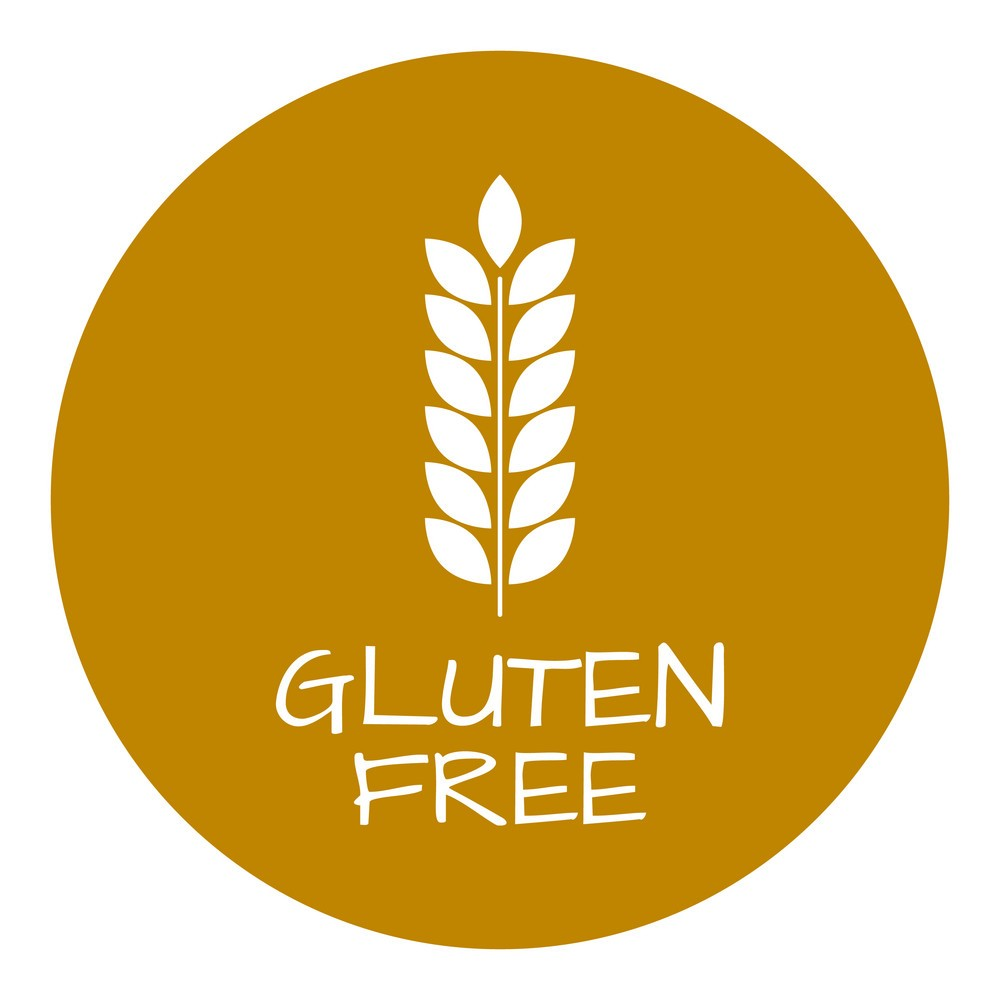
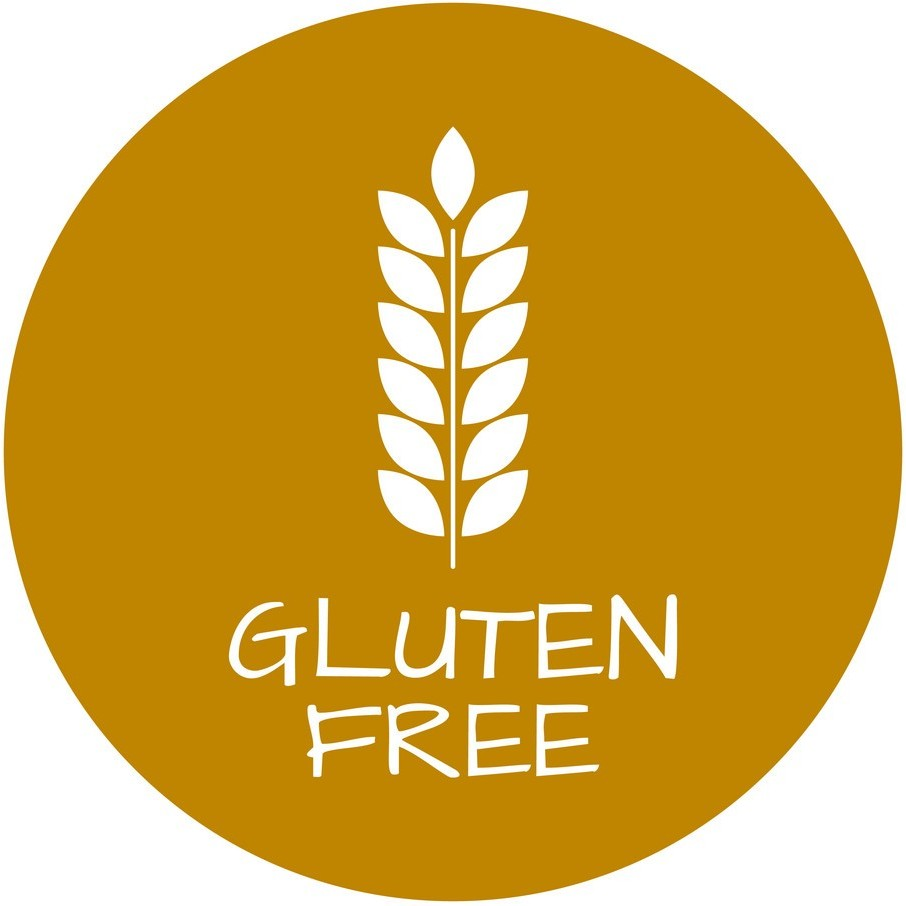
Form completamente funzionante

Changed region(s): [[0.0, 0.0, 1.0, 1.0], [0.2472, 0.649, 0.7726, 0.8653], [0.4018, 0.1236, 0.5872, 0.6181]]

diff --git a/recipes/gestione/templates/gestione/search_advanced.html b/recipes/gestione/templates/gestione/search_advanced.html
@@ -8,8 +8,36 @@
 
 {% block ricerca %} 
     <form action="{% url 'search' %}" method="POST">{% csrf_token %}
-        {{form|crispy}}
-    <input type="submit" value="Search" name='q'> </form>
+        <div class="form-row">
+            <div class="form-group col-md-4 mb-0">
+              {{ form.nome|as_crispy_field }}
+            </div>
+            <div class="form-group col-md-2 mb-0">
+                {{ form.difficolta|as_crispy_field }}
+              </div>
+            <div class="form-group col-md-2 mb-0">
+                {{ form.portata|as_crispy_field }}
+              </div>
+            <div class="form-group col-md-2 mb-0">
+                {{ form.costo_max|as_crispy_field }}
+              </div>
+            <div class="form-group col-md-2 mb-0">
+              {{ form.t_prep|as_crispy_field }}
+            </div>
+        </div>
+        <div class="form-row">
+            <div class="horizontalgap" style="width:120px">
+                {{ form.is_vegetarian|as_crispy_field }}
+            </div>
+            <div class="horizontalgap" style="width:100px">
+                {{ form.is_vegan|as_crispy_field }}
+            </div>
+            <div class="horizontalgap" style="width:200px">
+                {{ form.is_gluten_free|as_crispy_field }}
+            </div>
+        </div>
+        <input type="submit" value="Search" name='q'> 
+    </form>
 {% endblock %}
 
     

diff --git a/recipes/gestione/templates/gestione/ricetta_details.html b/recipes/gestione/templates/gestione/ricetta_details.html
@@ -16,13 +16,13 @@
         <li> Autore: {{ ricetta.utente }} </li>
     </ul>
     {% if ricetta.vegetariano %}
-        <img src={% static "static/img/vetarian_simbol.png" %} width="60" height="60" Hspace="15" Vspace="0" Border="0">        
+        <img src={% static "static/img/vetarian_simbol.png" %} width="80" height="80" Hspace="15" Vspace="0" Border="0">        
     {% endif %}
     {% if ricetta.vegano %}
-        <img src={% static "static/img/vegan_simbol.png" %} width="60" height="60" Hspace="15" Vspace="0" Border="0">
+        <img src={% static "static/img/vegan_simbol.png" %} width="80" height="80" Hspace="15" Vspace="0" Border="0">
     {% endif %}
     {% if ricetta.gluten_free %}
-        <img src={% static "static/img/gluten_free_simbol.jpg" %} width="60" height="60" Hspace="15" Vspace="0" Border="0">
+        <img src={% static "static/img/gluten_free_simbol.jpg" %} width="80" height="80" Hspace="15" Vspace="0" Border="0">
     {% endif %}
 
 

diff --git a/recipes/gestione/views.py b/recipes/gestione/views.py
@@ -160,6 +160,7 @@ def ricetta_delete_view(request, pk):
     }
     return render (request, "gestione/cancella_ricetta.html", context=context)
 
+
 # RICERCA E RISULTATI RICERCA
 # https://www.youtube.com/watch?v=G-Rct7Na0UQ
 # https://www.youtube.com/watch?v=vU0VeFN-abU
@@ -170,19 +171,47 @@ def search_advanced(request):
     if request.method == "POST":
         form = SearchForm(request.POST)
         if form.is_valid():
-            nome_query          = form.cleaned_data.get("nome" or None)
-            t_prep_query        = form.cleaned_data.get("t_prep")
-            is_vegetarian_query = form.cleaned_data.get("is_vegetarian")
-        
+            nome_query           = form.cleaned_data.get("nome" or None)
+            difficolta_query     = form.cleaned_data.get("difficolta" or None)
+            portata_query        = form.cleaned_data.get("portata")
+            costo_max_query      = form.cleaned_data.get("costo_max")
+            t_prep_query         = form.cleaned_data.get("t_prep")
+            is_vegetarian_query  = form.cleaned_data.get("is_vegetarian")
+            is_vegan_query       = form.cleaned_data.get("is_vegan")
+            is_gluten_free_query = form.cleaned_data.get("is_gluten_free")
+
+            # Nome
             if nome_query != '' and nome_query is not None:
                 qs = qs.filter(nome__icontains = nome_query)
 
+            # difficoltá
+            if difficolta_query != "0" and difficolta_query is not None:
+                qs = qs.filter(difficoltá__icontains = difficolta_query)
+
+            # portata
+            if portata_query != "0" and portata_query is not None:
+                qs = qs.filter(portata__icontains = portata_query)
+
+            # Costo max
+            if costo_max_query != '' and costo_max_query is not None:
+                qs = qs.filter(costo__lt = costo_max_query)
+
+            # Tempo preparazione
             if t_prep_query != '' and t_prep_query is not None:
                 qs = qs.filter(tempo_preparazione__lt = t_prep_query)
 
+            # Vegetariano
             if is_vegetarian_query == True:
                 qs = qs.filter(vegetariano = is_vegetarian_query)
+            
+            # Vegano
+            if is_vegan_query == True:
+                qs = qs.filter(vegano = is_vegan_query)
     
+            # Gluten free
+            if is_gluten_free_query == True:
+                qs = qs.filter(gluten_free = is_gluten_free_query)
+
     context = {
         "form" : form,
         "object_list" : qs

diff --git a/recipes/gestione/forms.py b/recipes/gestione/forms.py
@@ -2,17 +2,24 @@ from dataclasses import field
 from email.policy import default
 from django import forms
 
-from gestione.models import Ricetta, Ingredient
+from gestione.models import *
 from django.forms import formset_factory
 from django.forms import BaseInlineFormSet
 from django.forms import BaseFormSet
 
+DIFFICOLTA_CHOICES = (("0", ""), ("1", "Bassa"), ("2","Media"), ("3","Alta"))
+
+PORTATA_CHOICES = (("0", ""), ("1", "Antipasto"), ("2", "Primo"), ("3", "Secondo"), ("4", "Dolce"))
 
 class SearchForm(forms.Form):
     nome = forms.CharField(label="Nome ricetta", max_length=100, required=False) #min_lenght=3,
+    difficolta = forms.ChoiceField(label = "Difficolta", choices=DIFFICOLTA_CHOICES, required = False)
+    portata = forms.ChoiceField(label="Pasto", choices=PORTATA_CHOICES, required=False)
+    costo_max = forms.IntegerField(label="Costo Massimo", required=False)
     t_prep = forms.IntegerField(label="Tempo di preparazione massimo", required=False)
     is_vegetarian = forms.BooleanField(label = "Vegetariano", required=False)
-
+    is_vegan = forms.BooleanField(label = "Vegano", required=False)
+    is_gluten_free = forms.BooleanField(label = "Gluten free", required=False)
 
 class RicettaForm(forms.ModelForm):  
     description_create = "Create a new Ricetta!"

diff --git a/recipes/gestione/models.py b/recipes/gestione/models.py
@@ -24,7 +24,7 @@ class Ricetta(models.Model):
     vegano = models.BooleanField(default = False)
     gluten_free = models.BooleanField(default = False)
     immagine = models.ImageField(null=True, blank=True)
-    utente = models.ForeignKey(User, on_delete = models.CASCADE, blank=True, null=True, default=None, related_name = "non_so_cosa_vada")
+    utente = models.ForeignKey(User, on_delete = models.CASCADE, blank=True, null=True, default=None)
 
     def __str__(self):
         out = self.nome
